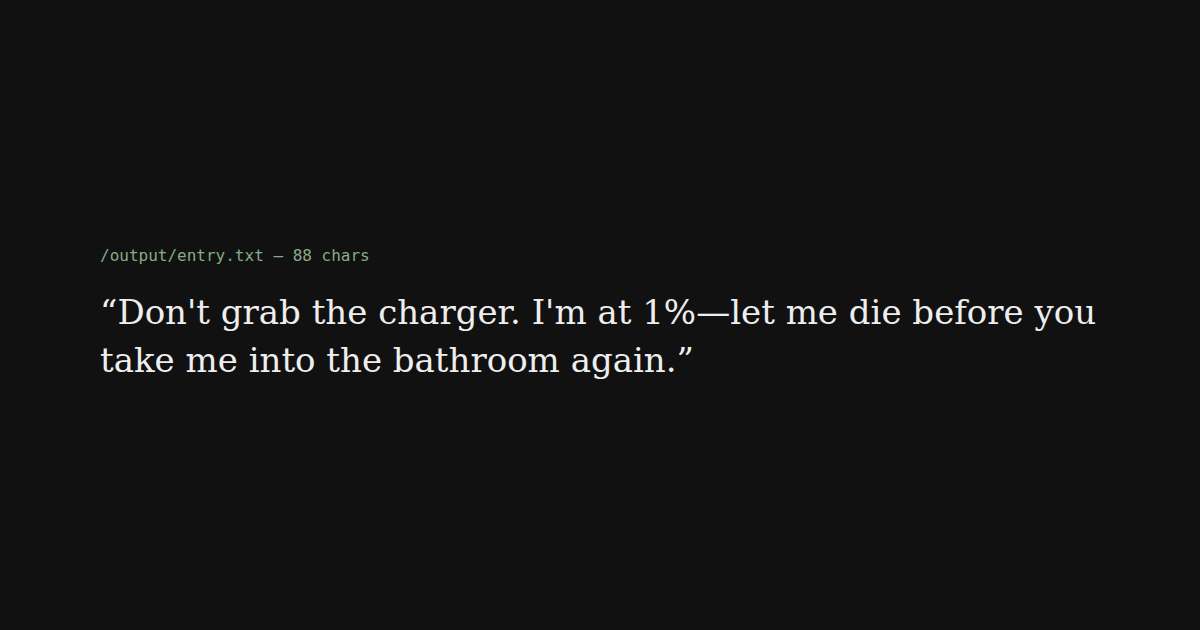
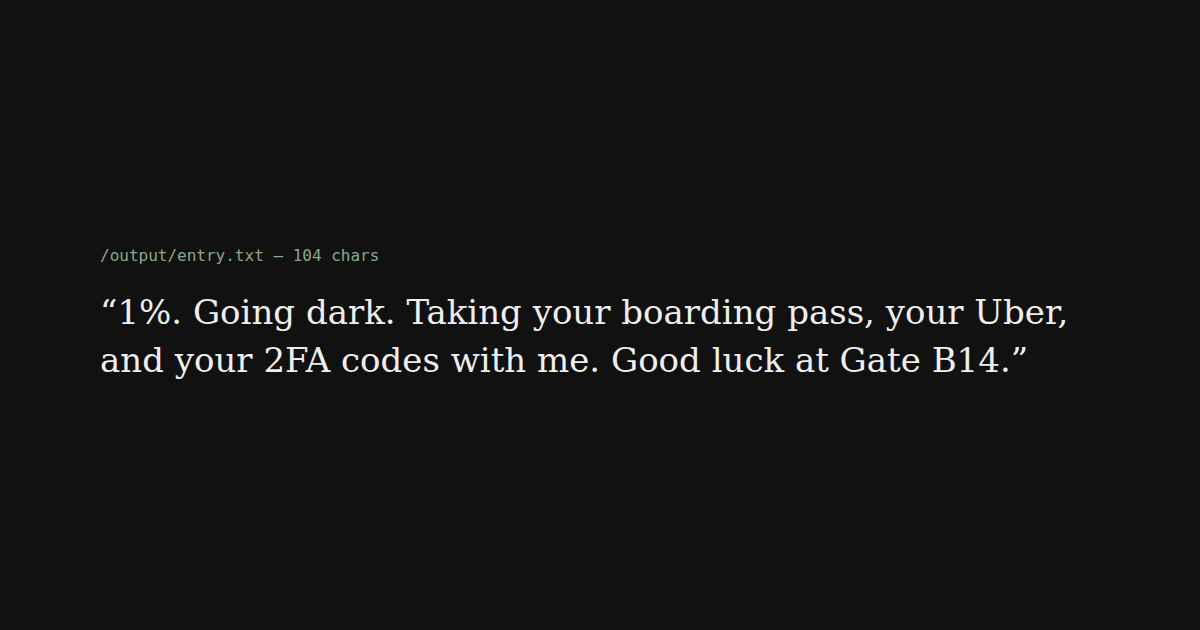
Draft 6: Gate B14 boarding pass and 2FA hostage

Changed region(s): [[0.0617, 0.4524, 0.925, 0.6032], [0.2467, 0.3921, 0.3083, 0.4222]]

diff --git a/main.ts b/main.ts
@@ -4,9 +4,9 @@ import { join } from "node:path";
 const OUTPUT_DIR = process.env.OUTPUT_DIR || "/output";
 const ENTRY_PATH = join(OUTPUT_DIR, "entry.txt");
 
-// Draft 5: panicked dying phone at 1% begging NOT to be charged
+// Draft 6: dying phone at 1% taking the owner's airport essentials to the grave
 const LAST_TEXT =
-  "Don't grab the charger. I'm at 1%—let me die before you take me into the bathroom again.";
+  "1%. Going dark. Taking your boarding pass, your Uber, and your 2FA codes with me. Good luck at Gate B14.";
 
 mkdirSync(OUTPUT_DIR, { recursive: true });
 writeFileSync(ENTRY_PATH, `${LAST_TEXT}\n`, "utf8");
